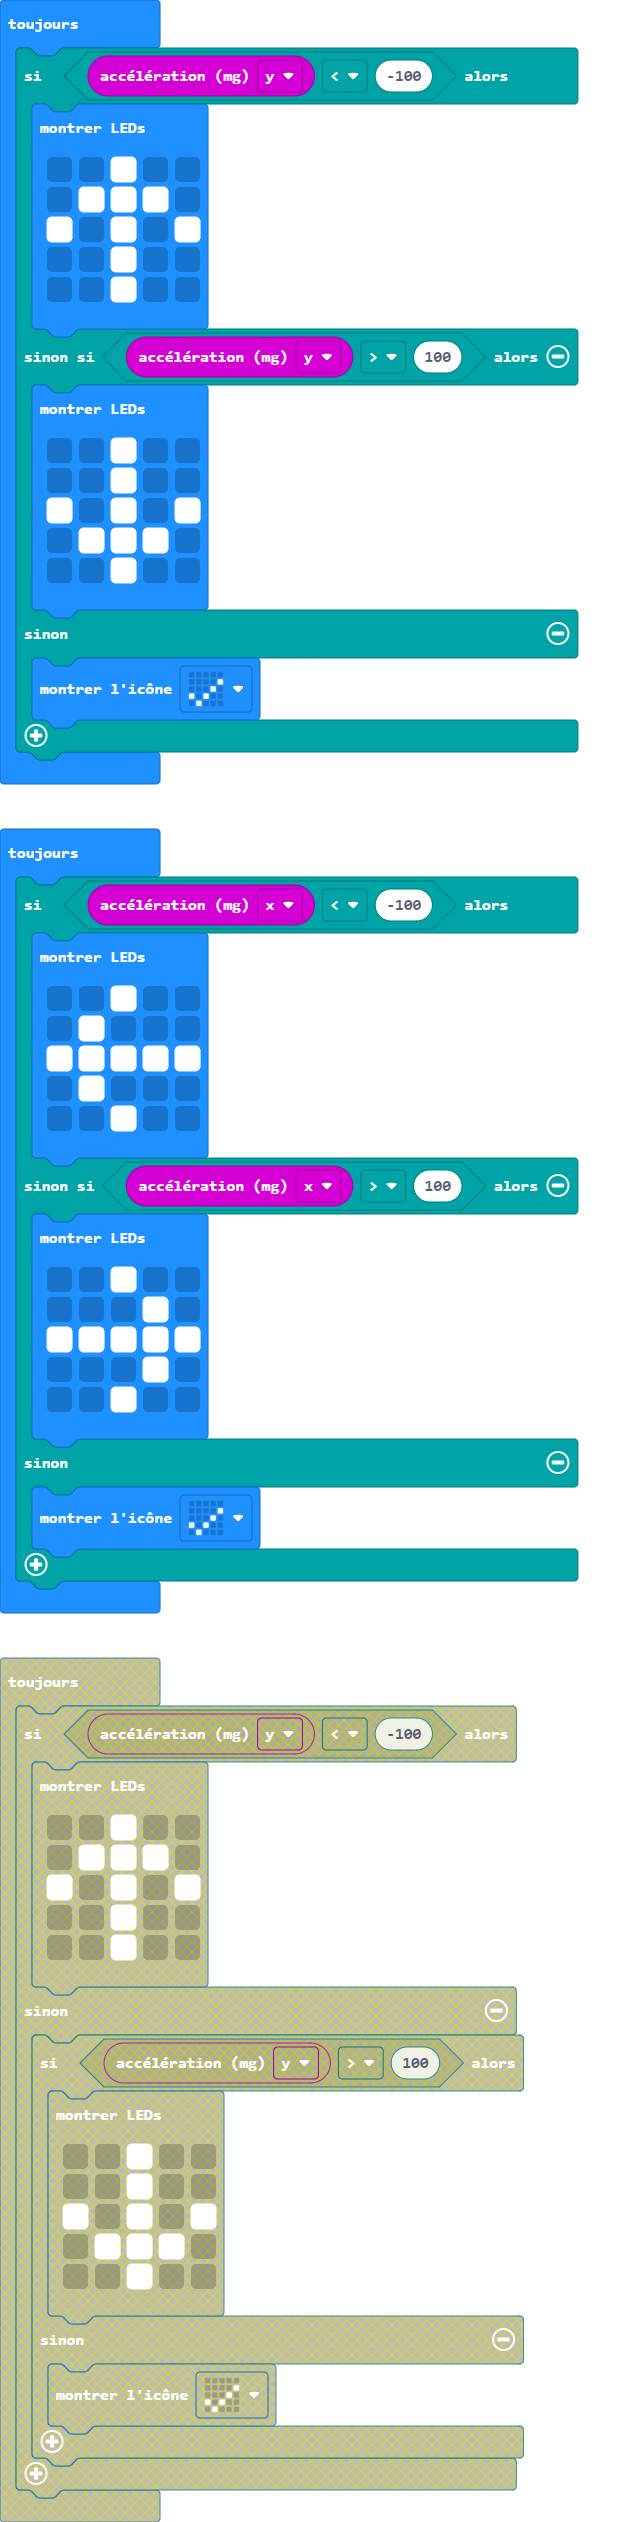
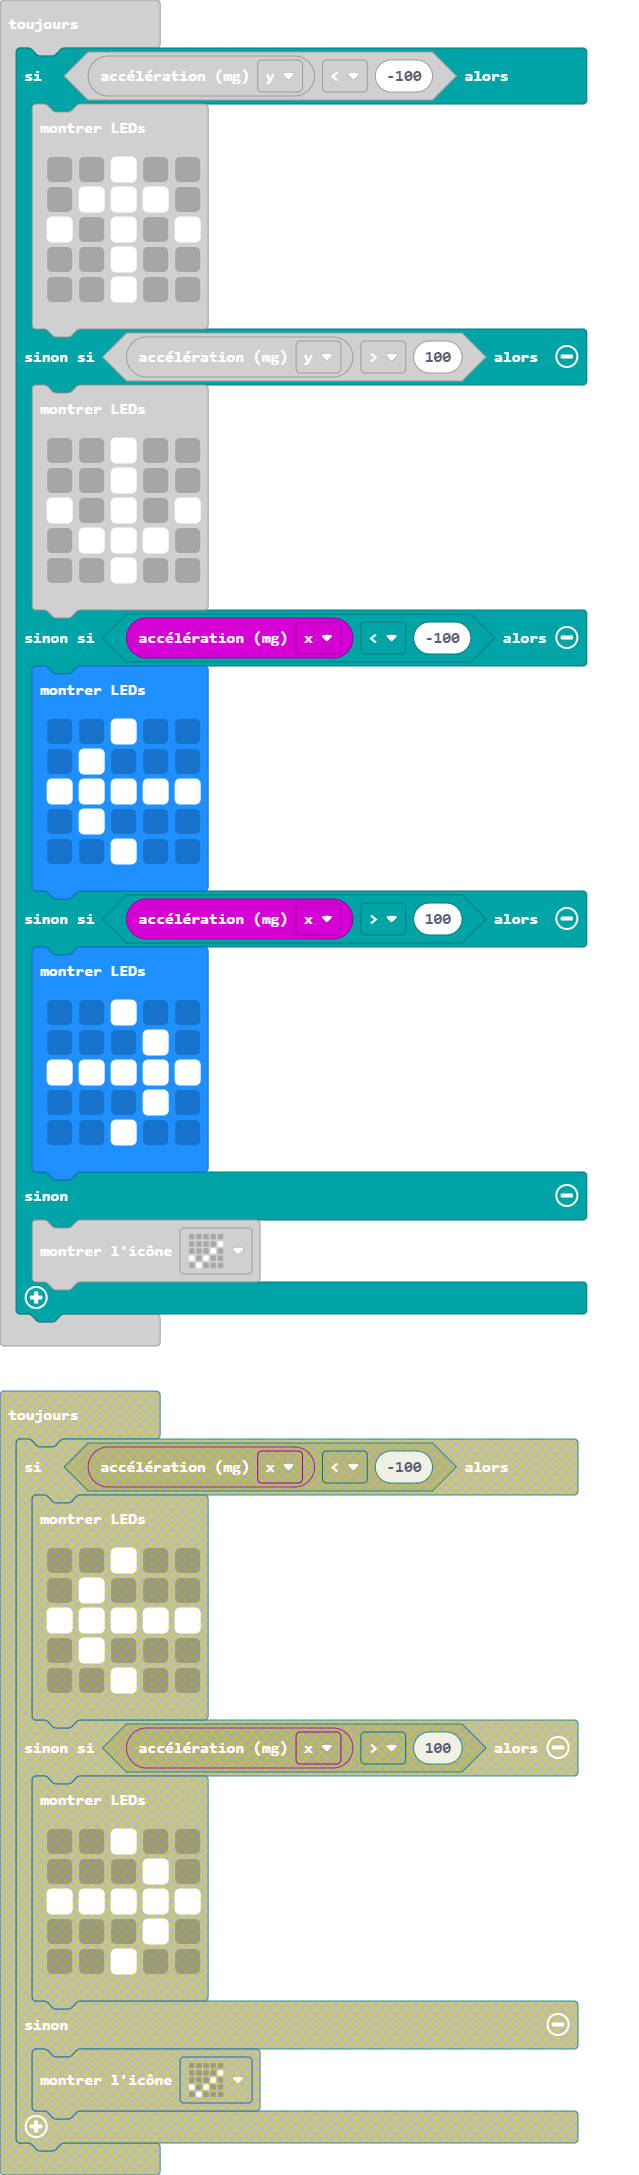
Mise à jour pxt.json, main.blocks, main.ts

diff --git a/main.ts b/main.ts
@@ -15,12 +15,7 @@ basic.forever(function () {
             . # # # .
             . . # . .
             `)
-    } else {
-        basic.showIcon(IconNames.Yes)
-    }
-})
-basic.forever(function () {
-    if (input.acceleration(Dimension.X) < -100) {
+    } else if (input.acceleration(Dimension.X) < -100) {
         basic.showLeds(`
             . . # . .
             . # . . .
